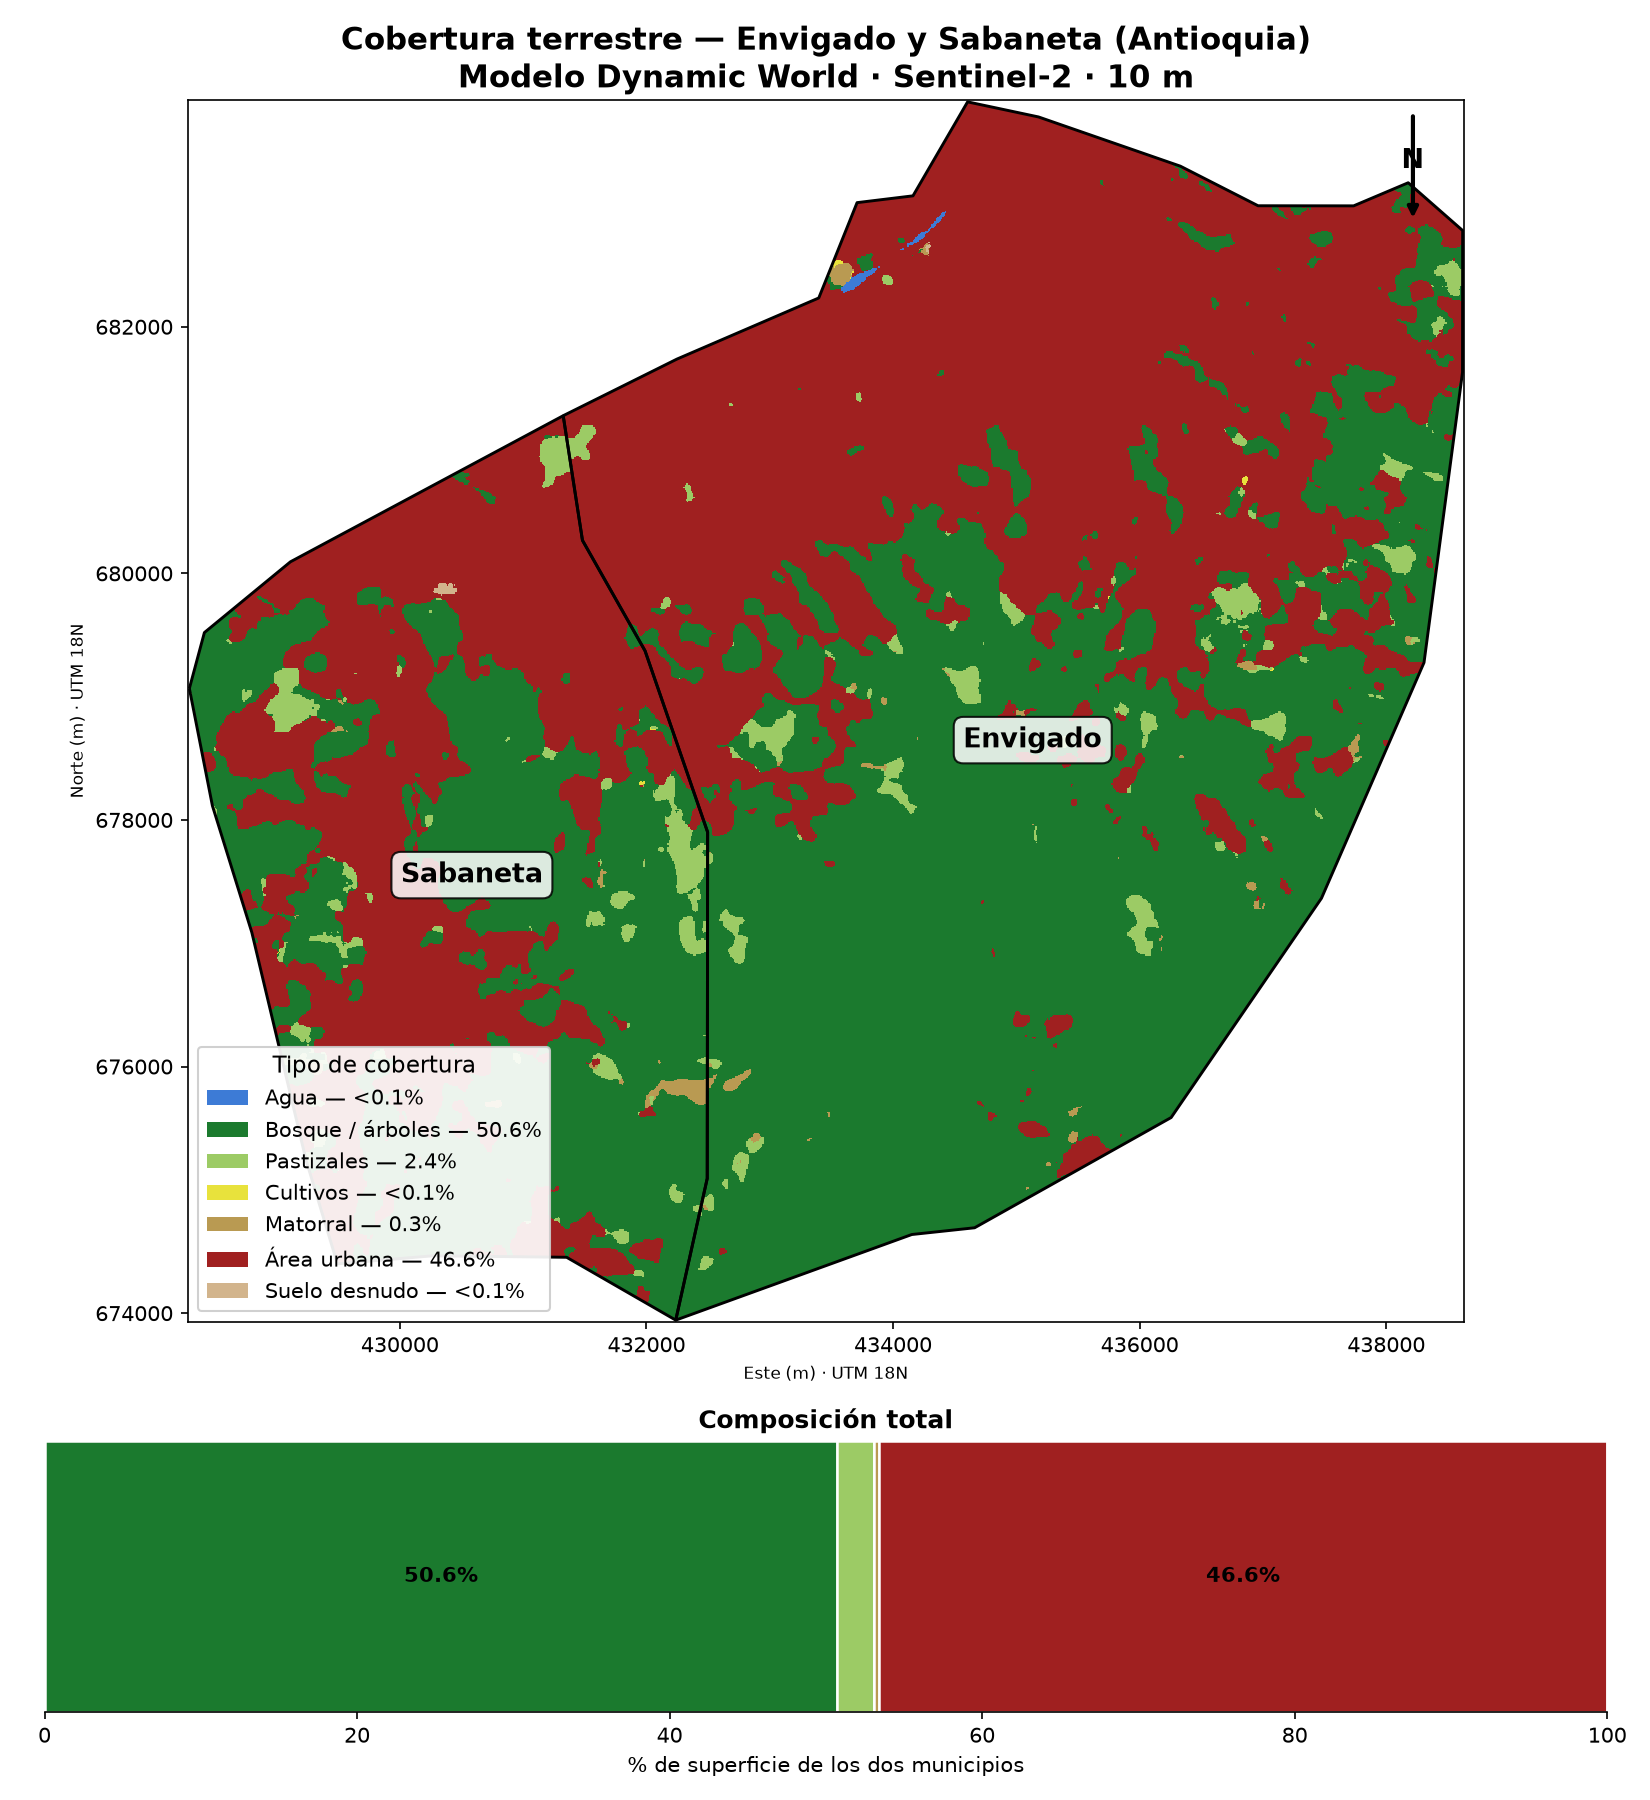
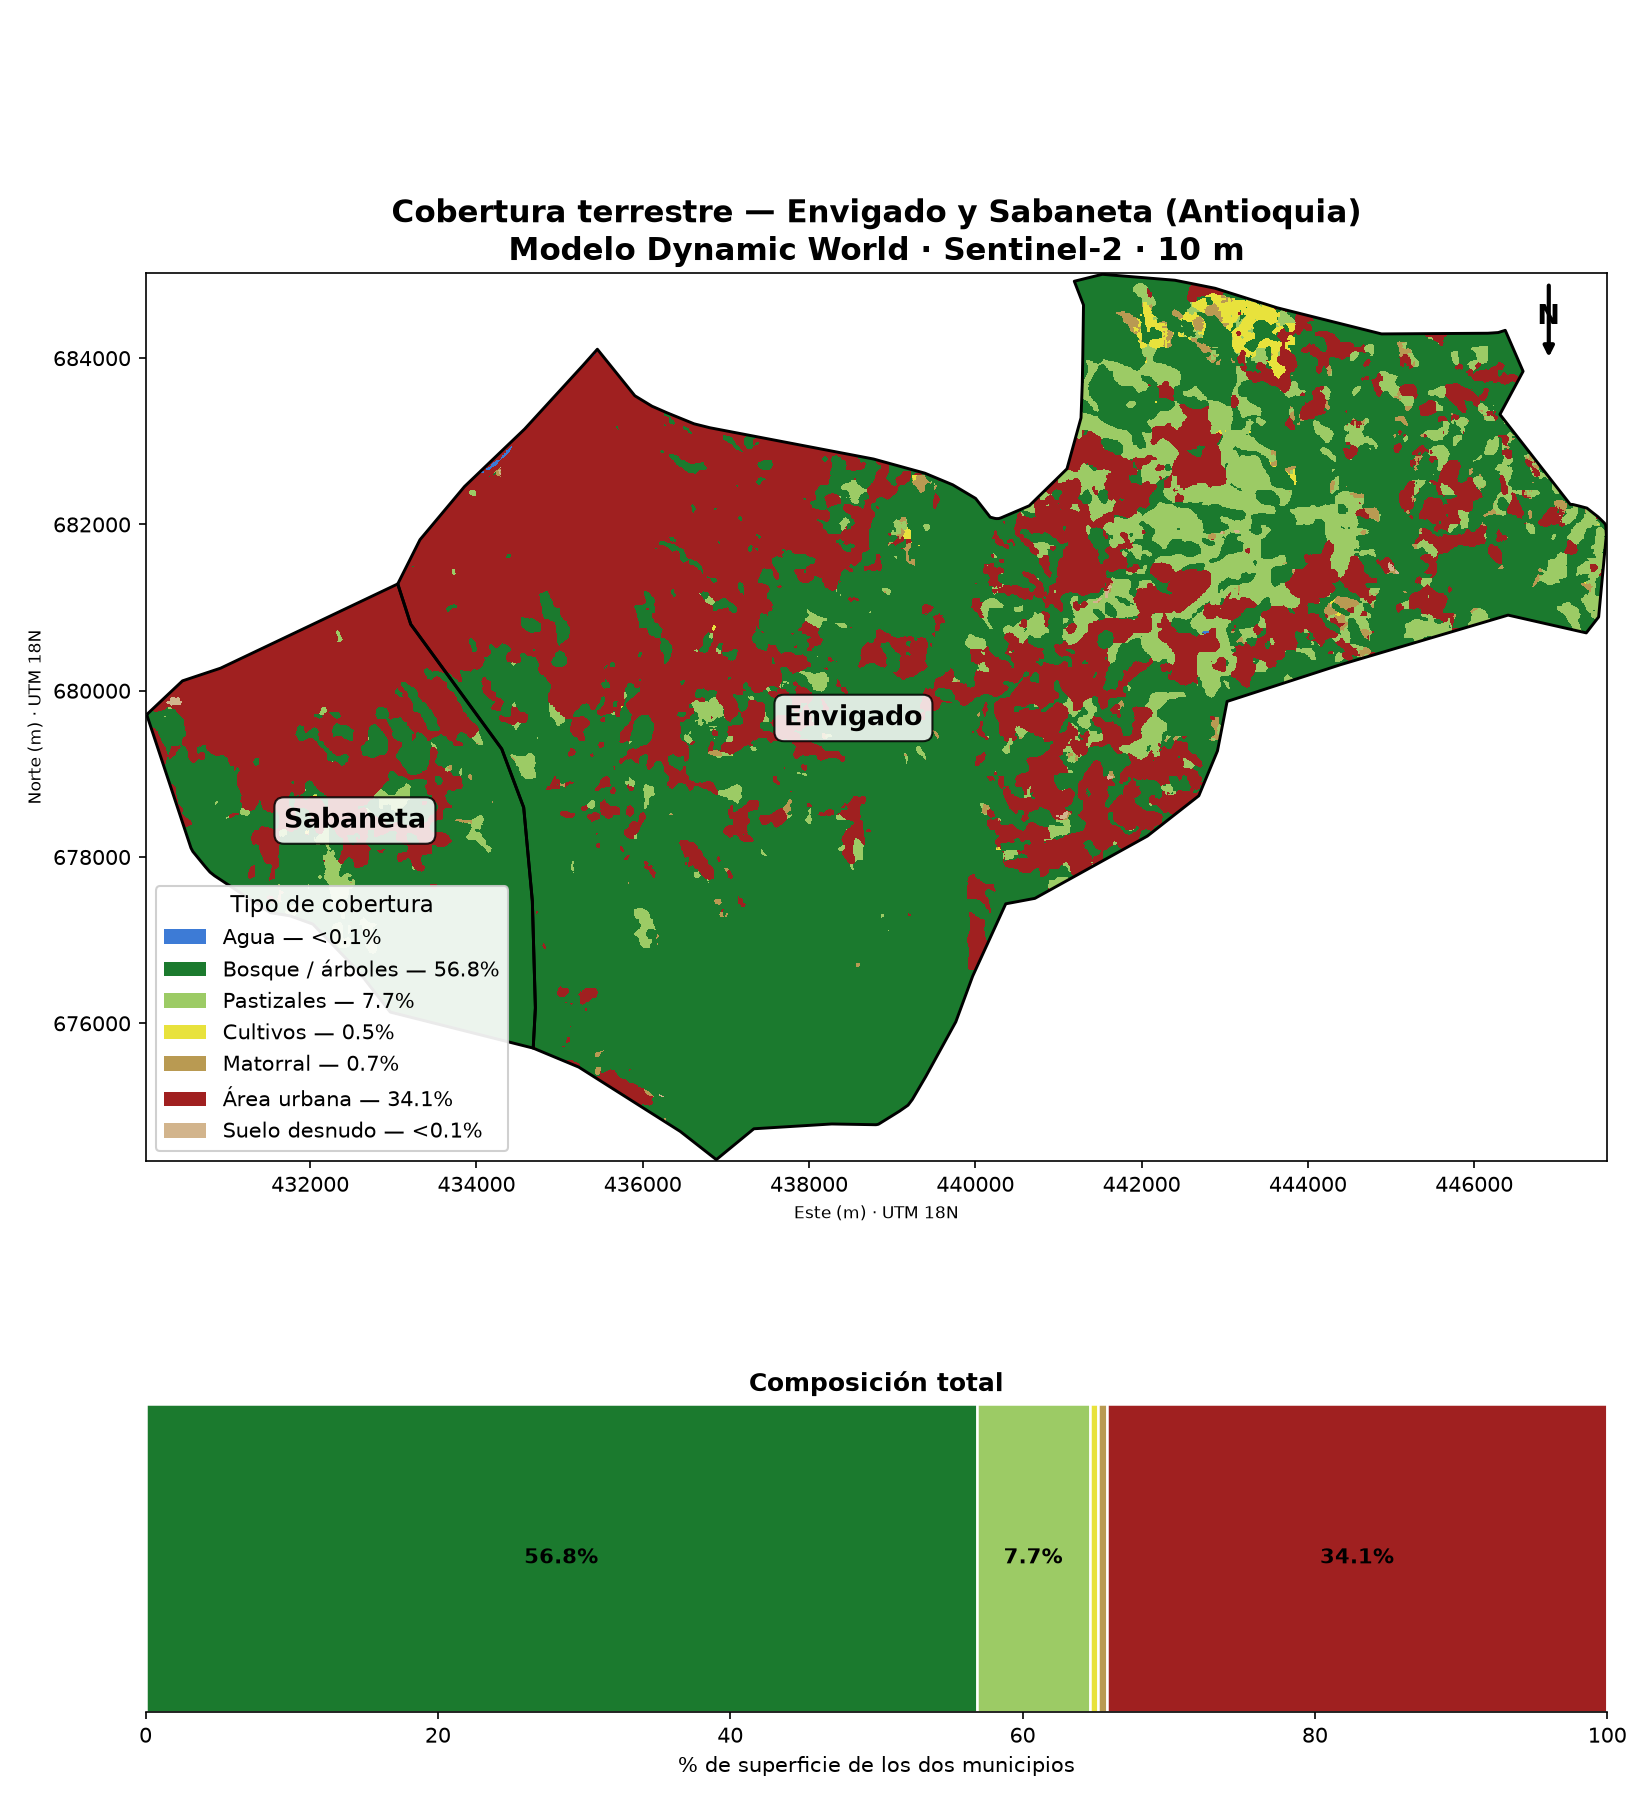
fix: migrar a GAUL 2025, que corrige los limites municipales
GAUL/2015 tenia los limites incorrectos: Envigado con 46.7 km2 cuando el
area oficial es ~79.7 km2, y Sobaneta con 21.5 km2 cuando son ~15.4 km2.
Eso hacia que los porcentajes de cobertura se calcularan sobre una
geometria equivocada.

Ademas, GAUL/2025 renombro los campos (GAUL0_NAME/GAUL2_NAME en lugar de
ADM0_NAME/ADM2_NAME). zonas.py ahora detecta automaticamente que campos
usa cada version, por lo que desaparece el aviso de deprecacion.

Resultados corregidos: bosque 56.83% (antes 50.65%), urbano 34.15%
(antes 46.57%), pastizales 7.75% (antes 2.37%).

diff --git a/zonas.py b/zonas.py
@@ -1,8 +1,12 @@
 """Límites administrativos de los municipios de estudio.
 
-Usa la colección FAO/GAUL/2015/level2 (bordes administrativos mundiales
-gratuitos disponibles en Google Earth Engine) y filtra los municipios
-indicados en config.MUNICIPIOS.
+Usa la colección FAO/GAUL (bordes administrativos mundiales gratuitos
+disponibles en Google Earth Engine).
+
+Importante: GAUL/2025 renombró los campos respecto a GAUL/2015:
+    2015: ADM0_NAME, ADM2_NAME
+    2025: GAUL0_NAME, GAUL2_NAME  (y el país también se puede buscar por ISO3_CODE)
+Esta función detecta automáticamente qué nombres usa cada versión.
 """
 
 import geopandas as gpd
@@ -11,35 +15,54 @@ from shapely.geometry import shape
 import ee
 import config
 
+# Versiones del dataset, de la más nueva a la más vieja.
+ASSETS_GAUL = ("FAO/GAUL/2025/level2", "FAO/GAUL/2015/level2")
+
+
+def _campos_pais_municipio(coleccion: ee.FeatureCollection) -> tuple[str, str]:
+    """Detecta los nombres de campo del país y del municipio."""
+    campos = coleccion.first().propertyNames().getInfo()
+
+    campo_pais = next((c for c in ("GAUL0_NAME", "ADM0_NAME") if c in campos), None)
+    campo_mun = next((c for c in ("GAUL2_NAME", "ADM2_NAME") if c in campos), None)
+
+    if not campo_pais or not campo_mun:
+        raise RuntimeError(f"Campos inesperados en el dataset: {campos}")
+    return campo_pais, campo_mun
+
+
+def _buscar_en(asset: str) -> ee.FeatureCollection | None:
+    """Intenta localizar los municipios en un asset; None si no están."""
+    try:
+        coleccion = ee.FeatureCollection(asset)
+        campo_pais, campo_mun = _campos_pais_municipio(coleccion)
+
+        filtro = ee.Filter.And(
+            ee.Filter.eq(campo_pais, config.PAIS),
+            ee.Filter.inList(campo_mun, config.MUNICIPIOS),
+        )
+        municipios = coleccion.filter(filtro)
+
+        if municipios.size().getInfo() == 0:
+            return None
+        return municipios
+
+    except Exception as error:
+        print(f"[AVISO] No se pudo usar {asset}: {type(error).__name__}")
+        return None
+
 
 def obtener_municipios() -> ee.FeatureCollection:
-    """Devuelve los límites de Sabaneta y Envigado como FeatureCollection.
-
-    Usa el asset FAO/GAUL/2025 (bordes administrativos mundiales) y, si
-    aún no estuviera disponible, regresa al clásico GAUL/2015.
-    """
-    for asset in ("FAO/GAUL/2025/level2", "FAO/GAUL/2015/level2"):
-        try:
-            gaul = ee.FeatureCollection(asset)
-            municipios = gaul.filter(_filtro_municipios())
-            cantidad = municipios.size().getInfo()
-            if cantidad > 0:
-                print(f"[OK] {cantidad} municipio(s) en {asset}: {config.MUNICIPIOS}")
-                return municipios
-        except Exception as advertencia:
-            print(f"[AVISO] {asset} no disponible ({type(advertencia).__name__})")
+    """Devuelve los límites de Sabaneta y Envigado como FeatureCollection."""
+    for asset in ASSETS_GAUL:
+        municipios = _buscar_en(asset)
+        if municipios is not None:
+            print(f"[OK] Municipios localizados en {asset}: {config.MUNICIPIOS}")
+            return municipios
 
     raise SystemExit(
         f"No se encontraron los municipios {config.MUNICIPIOS} en GAUL. "
         "Verifica los nombres (deben coincidir exactamente)."
-    )
-
-
-def _filtro_municipios() -> ee.Filter:
-    """Filtro: país = Colombia y nombre del municipio en la lista."""
-    return ee.Filter.And(
-        ee.Filter.eq("ADM0_NAME", config.PAIS),
-        ee.Filter.inList("ADM2_NAME", config.MUNICIPIOS),
     )
 
 
@@ -53,7 +76,7 @@ def a_geodataframe(municipios: ee.FeatureCollection) -> gpd.GeoDataFrame:
     geojson = municipios.getInfo()  # descarga los límites al PC
     registros = [
         {
-            "nombre": props.get("ADM2_NAME", ""),
+            "nombre": props.get("GAUL2_NAME") or props.get("ADM2_NAME", ""),
             "geometry": shape(feat["geometry"]),
         }
         for feat in geojson["features"]
